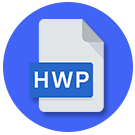
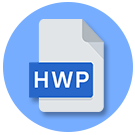
color change

diff --git a/css/dataroom.css b/css/dataroom.css
@@ -55,7 +55,7 @@
 .view_contents {
     width: 50%;
     display: inline-block;
-    background: #7483f5;
+    background: #dbe1ff;
     margin: 0 auto;
     border-radius: 15px;
 }
